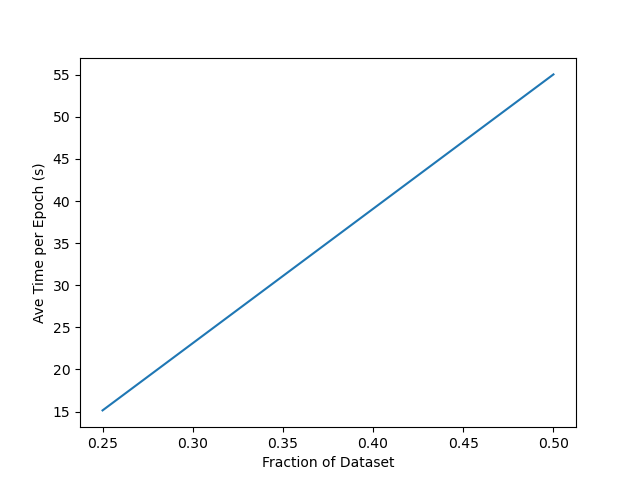
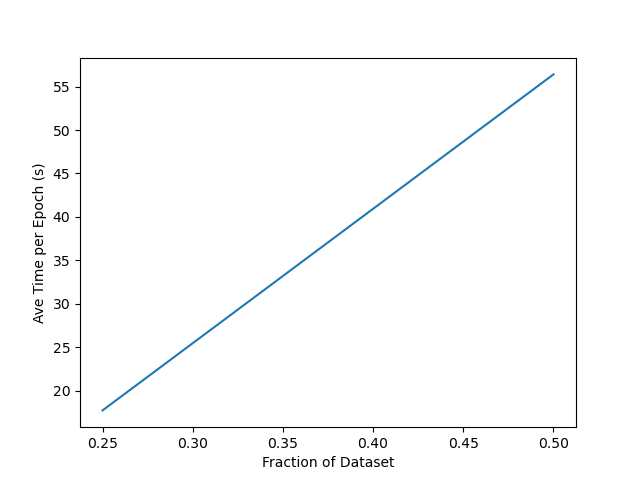
Fixed figures in performance.py

diff --git a/performance.py b/performance.py
@@ -13,7 +13,7 @@ import supervised
 import time
 
 # set to max number of gpus on the instance
-max_gpus = 1
+max_gpus = 2
 iters = 1
 
 def strong(semi = False):
@@ -52,8 +52,11 @@ def strong(semi = False):
             supervised.fit(input_dict,training_iters=iters)
         times.append((time.time()-begin)/iters)
 
-    plt.plot(range(max_gpus),times)
-    plt.savefig("avg_epoch_seconds_over_gpu.png")
+    fig,ax = plt.subplots(1,1)
+    ax.plot(list(range(max_gpus)),times)
+    ax.set_xlabel('Number of GPUs')
+    ax.set_ylabel('Ave Time per Epoch (s)')
+    fig.savefig("avg_epoch_seconds_over_gpu.png")
 
 def weak(semi = False):
     print ("weak scaling test")
@@ -62,7 +65,7 @@ def weak(semi = False):
     flooded_img, nonflooded_img, unlabeled_img = prep_data(semi)
 
     times = []
-    data_fracs = [0.25,0.5,0.75,1]
+    data_fracs = [0.25,0.5]#,0.75,1]
     for data_frac in data_fracs:
         print(f"frac of data {data_frac}")
         input_dict = {}
@@ -82,9 +85,13 @@ def weak(semi = False):
         else:
             supervised.fit(input_dict,training_iters=iters)
         times.append((time.time()-begin)/iters)
+    
+    fig,ax = plt.subplots(1,1)
+    ax.plot(data_fracs,times)
+    ax.set_xlabel('Fraction of Dataset')
+    ax.set_ylabel('Ave Time per Epoch (s)')
+    fig.savefig("avg_epoch_seconds_over_datasize.png")
 
-    plt.plot(data_fracs,times)
-    plt.savefig("avg_epoch_seconds_over_datasize.png")
 if __name__ == '__main__':
     weak(False) 
     strong(False)
